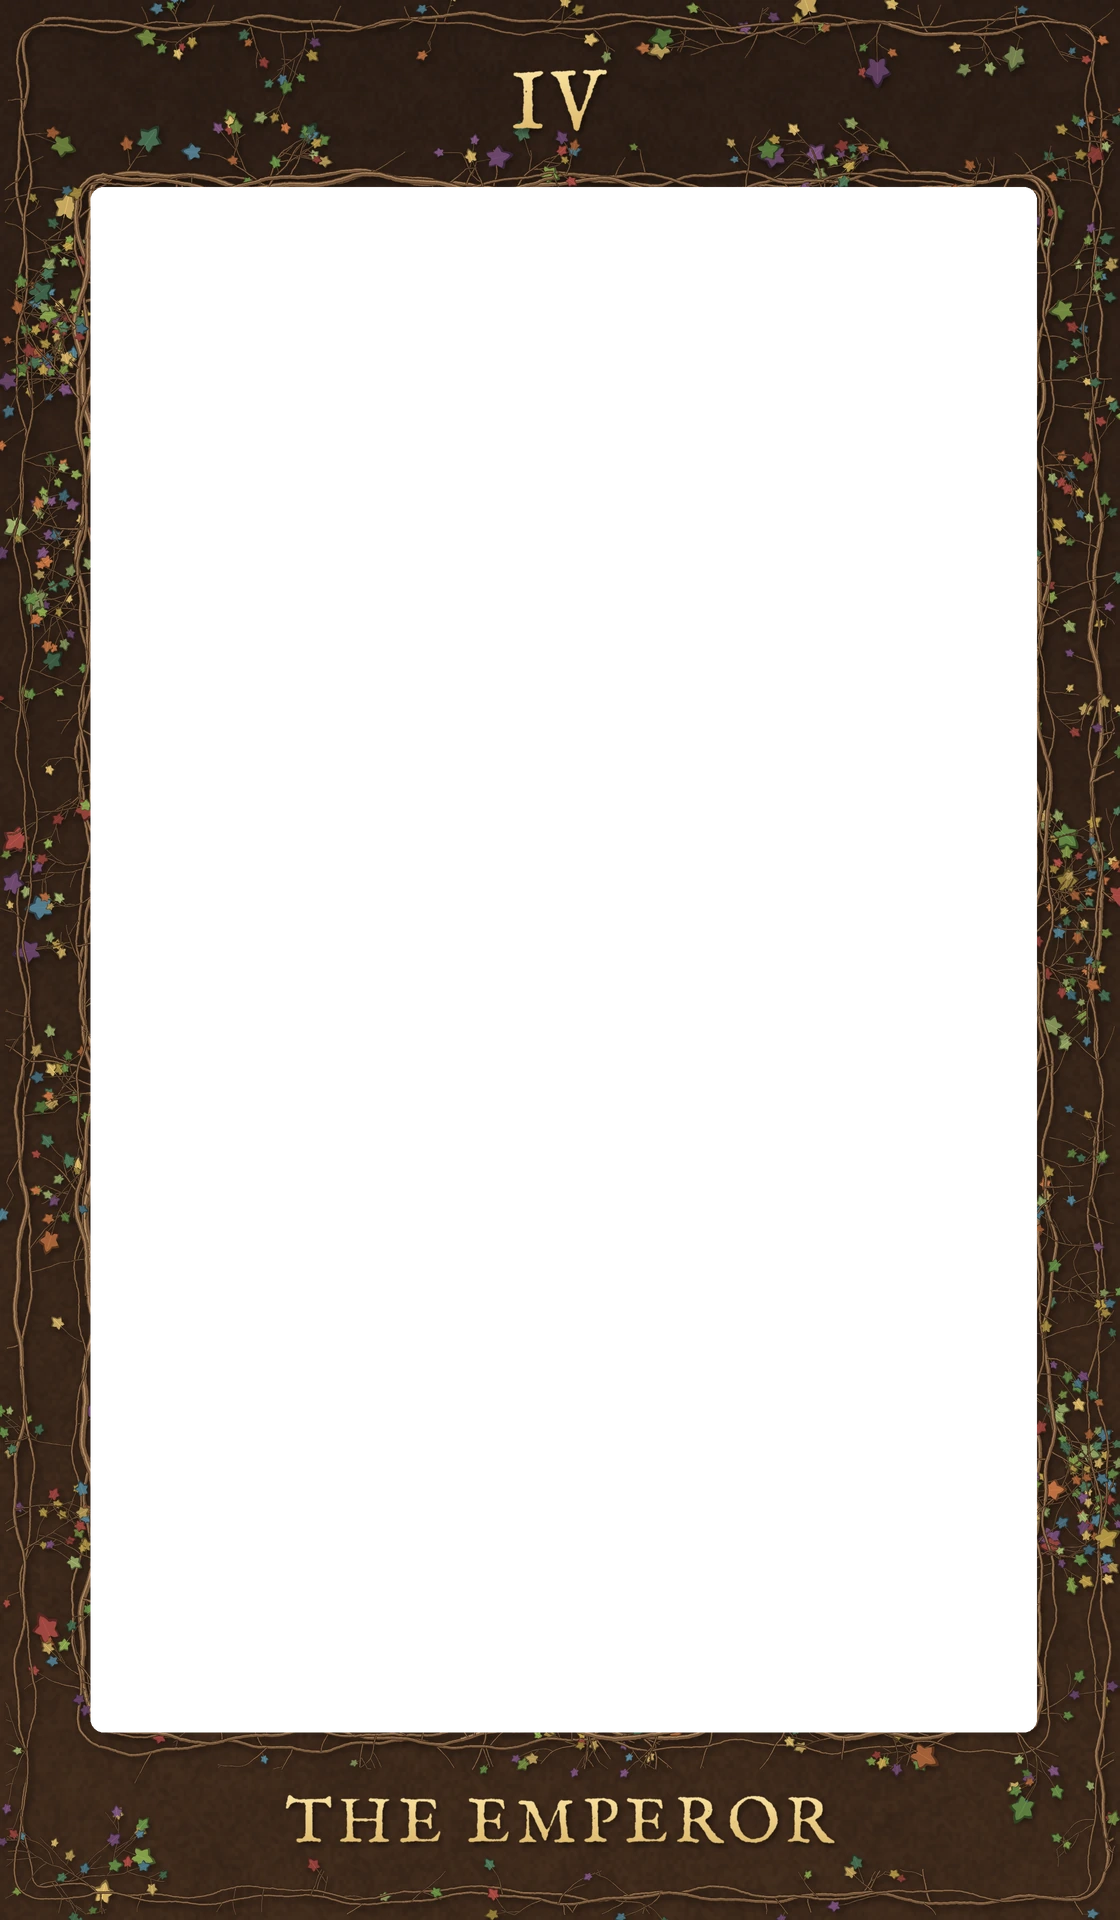
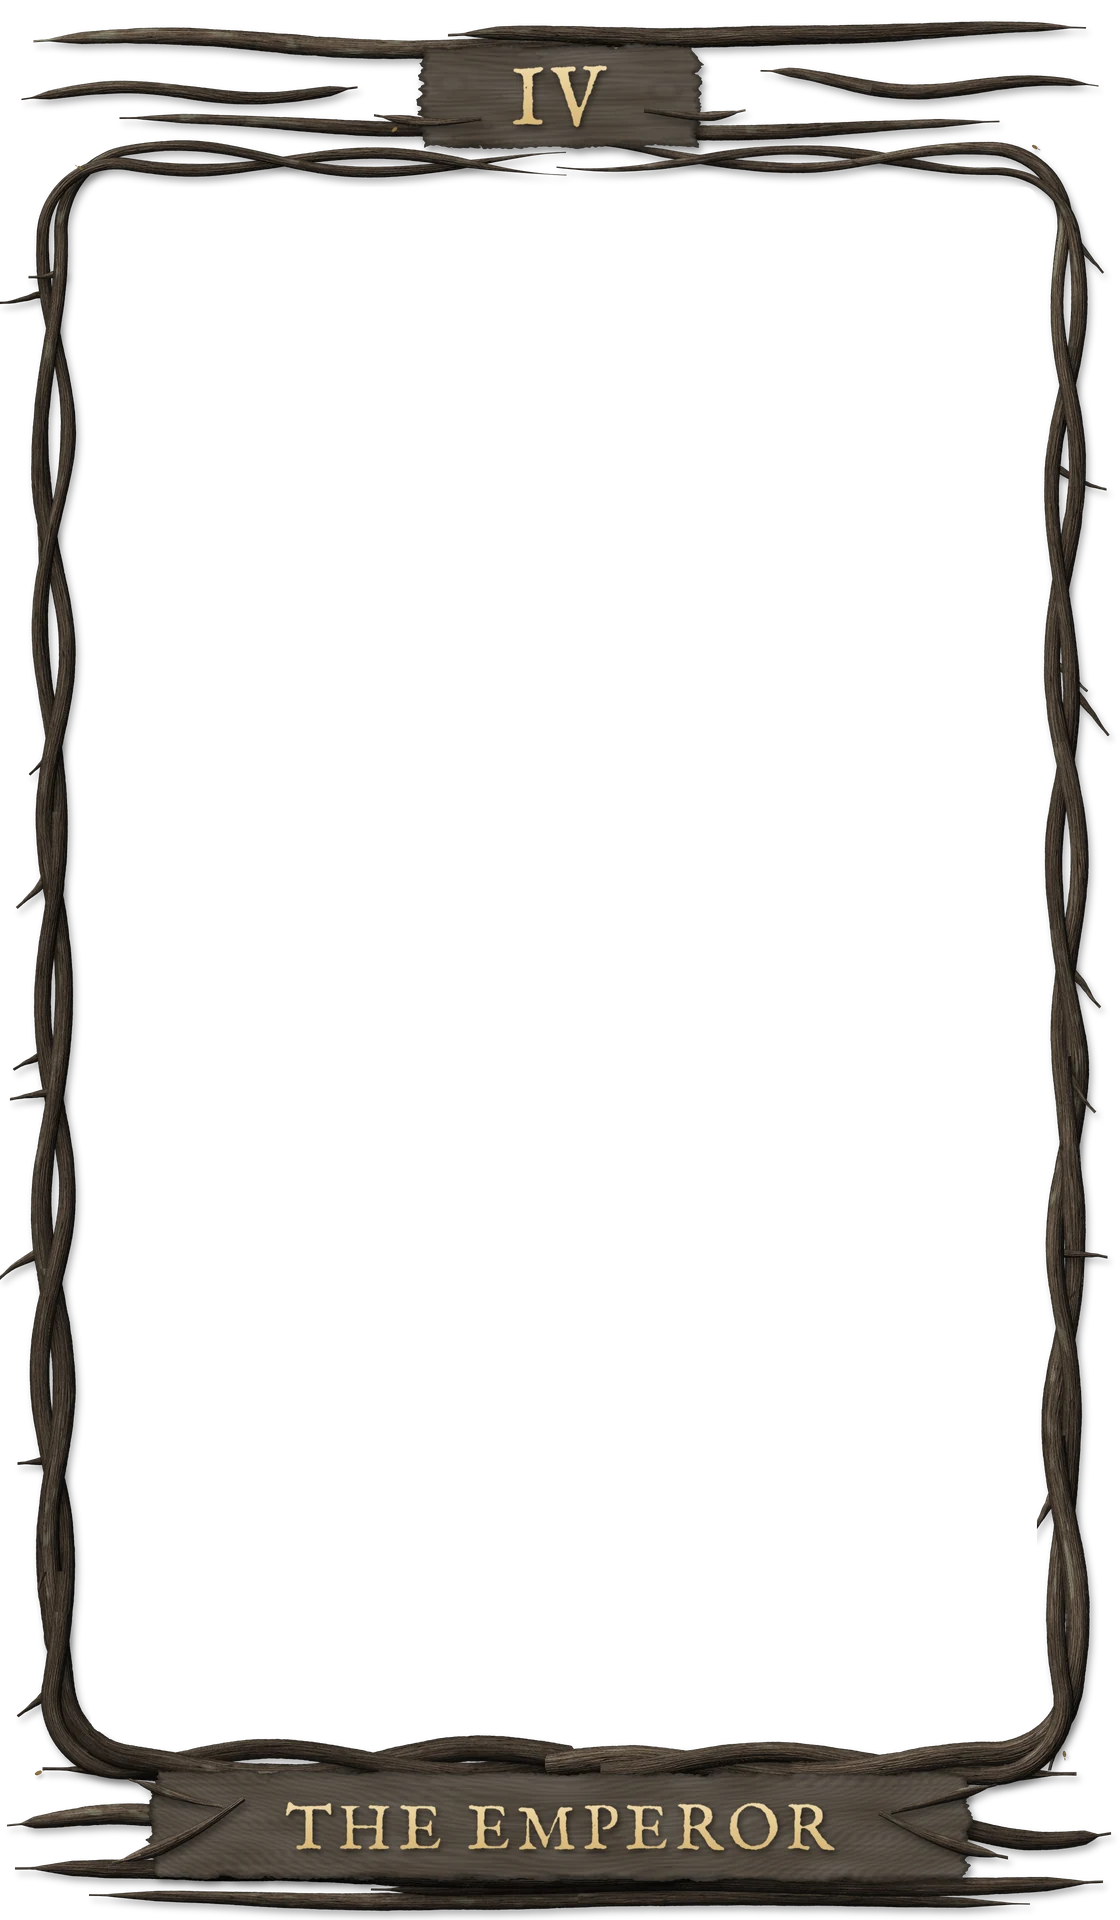
deusas: frame B v2, raw intertwined wooden branches + weathered planks, no solid fill; cache v3.4

Changed region(s): [[0.0, 0.0, 1.0, 1.0]]

diff --git a/deusas/index.html b/deusas/index.html
@@ -50,7 +50,7 @@ window.addEventListener('unhandledrejection',function(e){out('PROMISE '+(e.reaso
 //  1 -> v1/manifest.json  (v5 format, 3 moving layers bg|mid|fg + frame; normalized here to the v2 model, no figure layer)
 //  2 -> v2/deck/manifest.json, 3 -> v3/deck/manifest.json (v2-engine, bg|mid|figure|fg + frame)
 // Params: ?moldura=1|?frame=1 (frame moves with whole-card tilt; default static), ?debug=1, #NN card, ?pose=x,y, ?cardtilt=0.
-var V='3.3', ENGINE='unified', TILT=5, MAXDEG=12, LERP=0.12, AMPLITUDE=1.15, BOOST=1.03, FRONT_BOOST=1.03, FRONT={fg:1,energy:1};
+var V='3.4', ENGINE='unified', TILT=5, MAXDEG=12, LERP=0.12, AMPLITUDE=1.15, BOOST=1.03, FRONT_BOOST=1.03, FRONT={fg:1,energy:1};
 var Q=new URLSearchParams(location.search), DEBUG=Q.get('debug')==='1';
 var DECKN=({'1':1,'2':2,'3':3})[Q.get('deck')]||2;
 var DIR='./'; DECKN=3;
